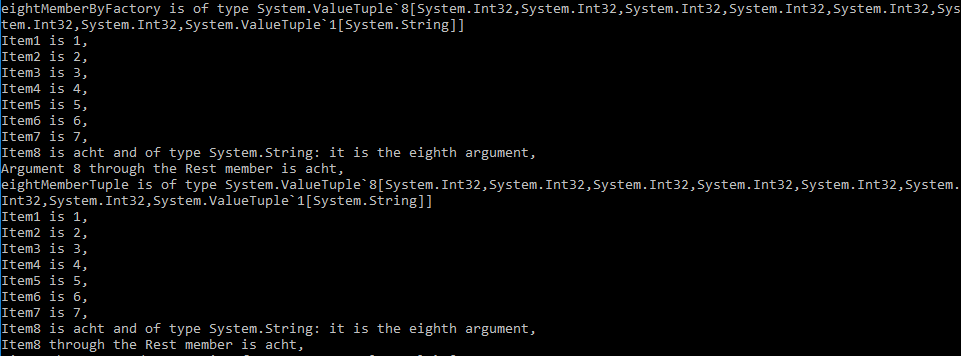
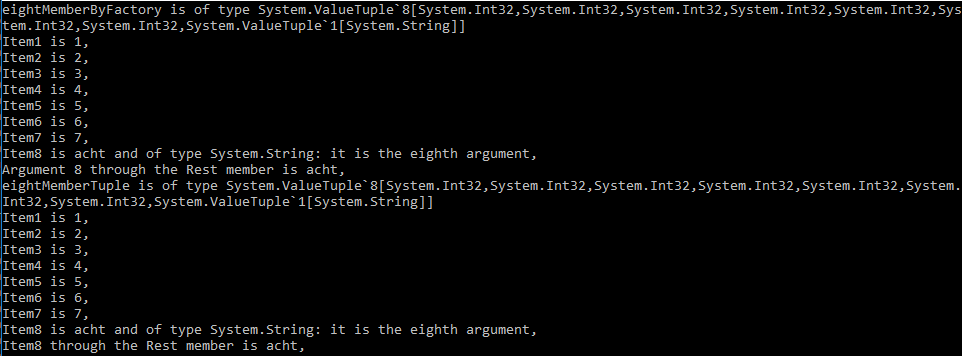
ValueTuple: more preparation for pub

Changed region(s): [[0.0, 0.0, 0.9979, 0.9888]]

diff --git a/ValueTuples/Program.cs b/ValueTuples/Program.cs
@@ -6,8 +6,10 @@ namespace ValueTuples
     {
         static void Main(string[] args)
         {
-            DoItWithOrdinaryTuples.TuplesWithManyMembers_AtInfinitum();
-            //DoItWithValueTuples.TuplesWithManyMembers_AtInfinitum();
+            DoItWithOrdinaryTuples.IdentityandEquality();
+            DoItWithValueTuples.IdentityandEquality();
+
+            QuickRefresh_Deconstruction.DeconstructionOfObjectOfType_ClassWithDeconstructor();
         }
     }
 }

diff --git a/Article/Article.md b/Article/Article.md
@@ -389,12 +389,10 @@ Console.WriteLine($"nineMemberTupleBySyntax is of type {nineMemberTupleBySyntax.
 ```
 For the ValueTuples with eight members, following is the output:
 
-> volgende screenshot is NIET correct 
 ![Value Type with eight members](valuetype_atinfinitum_eightmember.PNG)
 
 For the ValueTuples with nine members, following is the output:
 
-> volgende screenshot is NIET correct 
 ![Value Type with nine members](valuetype_atinfinitum_ninemember.PNG)
 
 Here also, with 7 or less members, nothing special is happening.
@@ -415,11 +413,13 @@ When usin the syntax convention for creation, the compiler knows how to deal wit
 The above calls actually get compiled into following code (using C# 6.0 syntax)
 
 ```csharp
-ValueTuple<int, int, int, int, int, int, int, int> eightMemberByConstructor = new ValueTuple<int, int, int, int, int, int, int, int>(1, 2, 3, 4, 5, 6, 7, 8);
-ValueTuple<int, int, int, int, int, int, int, ValueTuple<int>> eightMemberByFactory = ValueTuple.Create(1, 2, 3, 4, 5, 6, 7, 8);
+ValueTuple<int, int, int, int, int, int, int> sevenMemberByConstructor = new ValueTuple<int, int, int, int, int, int, int>(1, 2, 3, 4, 5, 6, 7);
+ValueTuple<int, int, int, int, int, int, int> sevenMemberByFactory = ValueTuple.Create(1, 2, 3, 4, 5, 6, 7);
 ValueTuple<int, int, int, int, int, int, int> sevenMemberTuple = new ValueTuple<int, int, int, int, int, int, int>(1, 2, 3, 4, 5, 6, 7);
-ValueTuple<int, int, int, int, int, int, int, ValueTuple<int>> eightMemberTuple = new ValueTuple<int, int, int, int, int, int, int, ValueTuple<int>>(1, 2, 3, 4, 5, 6, 7, new ValueTuple<int>(8));
-ValueTuple<int, int, int, int, int, int, int, ValueTuple<int, int>> nineMemberTupleAttempt = new ValueTuple<int, int, int, int, int, int, int, ValueTuple<int, int>>(1, 2, 3, 4, 5, 6, 7, new ValueTuple<int, int>(8, 9));
+ValueTuple<int, int, int, int, int, int, int, ValueTuple<string>> eightMemberByFactory = ValueTuple.Create(1, 2, 3, 4, 5, 6, 7, "acht");
+ValueTuple<int, int, int, int, int, int, int, ValueTuple<string>> eightMemberTuple = new ValueTuple<int, int, int, int, int, int, int, ValueTuple<string>>(1, 2, 3, 4, 5, 6, 7, new ValueTuple<string>("acht"));
+ValueTuple<int, int, int, int, int, int, int, ValueTuple<ValueTuple<string, string>>> nineMemberByNestedFactory = ValueTuple.Create(1, 2, 3, 4, 5, 6, 7, ValueTuple.Create("acht", "negen"));
+ValueTuple<int, int, int, int, int, int, int, ValueTuple<string, string>> nineMemberTupleBySyntax = new ValueTuple<int, int, int, int, int, int, int, ValueTuple<string, string>>(1, 2, 3, 4, 5, 6, 7, new ValueTuple<string, string>("acht", "negen"));
 ```
 Notice how:
 - creation through the constructor and factory method gets compiled to a respective constructor call and a call of the factory method.
@@ -469,7 +469,7 @@ Notice how:
 Finally, can we create a tuple with the default constructor? Let's find out.
 
 #### Syntax for Reference Tuples
-The code](https://github.com/sergedesmedt/CSharpLanguageFeatures/blob/master/ValueTuples/DoItWithOrdinaryTuples.cs#L80-L83)
+[The code](https://github.com/sergedesmedt/CSharpLanguageFeatures/blob/master/ValueTuples/DoItWithOrdinaryTuples.cs#L80-L83)
 ```csharp
 // Following does not compile
 //Tuple<int, string> myTuple = new Tuple<int, string>();
@@ -650,6 +650,7 @@ Following is a simple refresh on Deconstruction. It is not my intention to provi
 
 #### Constructors
 We all know constructors of classes: they provide a point of initialization for the members of the class. They allow you to provide initial values for the members. Those values can be defined in the constructor themselves, or they can be provided to the constructor as parameters in the constructor call:
+
 [The code](https://github.com/sergedesmedt/CSharpLanguageFeatures/blob/master/ValueTuples/QuickRefreshDeconstruction/ClassWithConstructors.cs#L6-L26)
 ```csharp
 public class ClassWithConstructors {
@@ -694,6 +695,7 @@ But, what if we wanted to "un-group" those properties back into seperate values?
 
 #### Deconstructor
 Deconstructors provide for the opposite operation: they allow to decompose/deconstruct an object of a class into its seperate components by assigning them to seperate variables. For that we define a `Deconstructor` for the class:
+
 [The code](https://github.com/sergedesmedt/CSharpLanguageFeatures/blob/master/ValueTuples/QuickRefreshDeconstruction/ClassWithDeconstructor.cs#L6-L26)
 ```csharp
 public class ClassWithDeconstructor {
@@ -732,6 +734,8 @@ Console.WriteLine("The decomposition of the object results in following values >
                 $" targetForInt: {targetForInt}" +
                 $" targetForString: {targetForString}");
 ```
+![Output of the code](quickrefresh_deconstruction_deconstructionofobjectoftype_classwithdeconstructor.PNG)
+
 Notice how:
  - The Deconstructor always has the name `Deconstructor`!
  - For the printing of the properties of the class, we have to use the dot-syntax for class members: the variable name of the object, a dot and finally the name of the property
@@ -802,6 +806,7 @@ Console.WriteLine($"Tuple item1: {tuple.Item1} - item2: {tuple.Item2}");
 Nothing special here: a reference to the tuple created in the method is returned to the caller, and we can then access it's properties through the usual dot operator.
 
 Of course, just as we can deconstruct reference tuples created in our code, we can also deconstruct reference tuples returned from a method:
+
 [The code](https://github.com/sergedesmedt/CSharpLanguageFeatures/blob/master/ValueTuples/DoItWithOrdinaryTuples.cs#L166-L169)
 ```csharp
 var (theNumber, theString) = GiveMeTheTuple();
@@ -831,7 +836,7 @@ Console.WriteLine($"Tuple item1 through variable theNumber: {theNumber} - item2 
 #### Syntax for Value tuples: named members
 When we used ValueTuples as a regular variable, we where able to name the members. We can do the same when we return a ValueTuple from a method: we provide the names in the signature of the method.
 
-
+[The code](https://github.com/sergedesmedt/CSharpLanguageFeatures/blob/master/ValueTuples/DoItWithValueTuples.cs#L254-L290)
 ```csharp
 public static (int theNumber, string theString) GiveMeTheTuple_Named() {
     return (11, "elf");
@@ -844,6 +849,8 @@ Console.WriteLine($"Tuple item1 through variable theNumber: {tuple.theNumber} - 
 When calling the method, we can use the names given in the method's signature, or we can use the regular Item1, Item2, etc... names.
 
 What does NOT work is give the names inside the method:
+
+[The code](https://github.com/sergedesmedt/CSharpLanguageFeatures/blob/master/ValueTuples/DoItWithValueTuples.cs#L254-L290)
 ```csharp
 public static (int, string) GiveMeTheTuple_InternallyNamed() {
     return (internalInteger: 11, internalString: "elf");
@@ -907,6 +914,8 @@ In the sample code you'll also find examples for nested `ValueTuple`s, mixed nam
 ### As Arguments to Methods
 
 #### Syntax for reference `Tuple`s
+
+[The code](https://github.com/sergedesmedt/CSharpLanguageFeatures/blob/master/ValueTuples/DoItWithOrdinaryTuples.cs#L175-L182)
 ```csharp
 public static void AcceptTheTuple(Tuple<int, string> arg) {
     Console.WriteLine($"Tuple item1 through the member: {arg.Item1} - item2 through the member: {arg.Item2}");
@@ -918,6 +927,8 @@ AcceptTheTuple(tuple);
 Nothing special here: a reference to the tuple is given to the method which can then use it internally.
 
 #### Syntax for ValueTuples
+
+[The code](https://github.com/sergedesmedt/CSharpLanguageFeatures/blob/master/ValueTuples/DoItWithValueTuples.cs#L296-L336)
 ```csharp
 public static void AcceptTheTuple_Anonymous((int, string) arg) {
     Console.WriteLine($"Tuple item1 through the member: {arg.Item1} - item2 through the member: {arg.Item2}");
@@ -938,6 +949,8 @@ Notice how:
 
 #### Syntax for Value tuples: named members
 Can we provide names for the fields of a ValueTuple used as an argument to a function? Well, yes we can, but only in the signature of the method:
+
+[The code](https://github.com/sergedesmedt/CSharpLanguageFeatures/blob/master/ValueTuples/DoItWithValueTuples.cs#L296-L336)
 ```csharp
 public static void AcceptTheTuple_Named((int theNumber, string theString) arg) {
     // Following does not compile: the parameter is a tuple and not two deconstructed values
@@ -960,6 +973,8 @@ AcceptTheTuple_Named(someNamedTupe);
 *A quick note here: allthough the syntax for Deconstruction and `ValueTuple`s is similar, they are of course completely distinct features: where Deconstruction puts the components directly in variables, with `ValueTuple`s you define a single variable (`arg` in this case) and give the members of the tuple distinct names (`theNumber` and `theString`)*
 
 #### Method overloading
+
+[The code](https://github.com/sergedesmedt/CSharpLanguageFeatures/blob/master/ValueTuples/DoItWithValueTuples.cs#L300-L310)
 ```csharp
 public static void AcceptTheTuple_Named((int theNumber, string theString) arg) {
     // Following does not compile: the parameter is a tuple and not two deconstructed values
@@ -992,6 +1007,8 @@ This may come as a surprise, after all we don't need those names anymore inside 
 Allthough the names are not considered for *method overloading*, they are considered for *method overriding*. It is NOT allowed to change the names of the components of a `ValueType` used as an argument to a method when defining an override for that method.
 
 Following is an example using interfaces, but in the accompaning code you can find similar code for abstract methods and virtual methods.
+
+[The code](https://github.com/sergedesmedt/CSharpLanguageFeatures/blob/master/ValueTuples/InterfaceMethodsInterfaceImpl.cs#L6-L69)
 ```csharp
 public interface IInterfaceMethods {
     (int, string) AnonymousTupleAsReturn();
@@ -1069,6 +1086,8 @@ public void AnonymousTupleAsArgument((int, string) argWithAnotherName)
 
 ### ValueTuples and Generics
 Because names in a certain scope are resolved by the compiler, we can use the names in the following case:
+
+[The code](https://github.com/sergedesmedt/CSharpLanguageFeatures/blob/master/ValueTuples/DoItWithValueTuples.cs#L346-L363)
 ```csharp
 public static T DoSomethingWithTheArgument<T>(T arg) {
     return arg;
@@ -1097,6 +1116,8 @@ public static (int theNumber, string theString) DoSomethingWithTheArgument((int 
 }
 ```
 There is no intelligence infering names spread across tuples:
+
+[The code](https://github.com/sergedesmedt/CSharpLanguageFeatures/blob/master/ValueTuples/DoItWithValueTuples.cs#L365-L378)
 ```csharp
 public static (T, V) DoSomeMoreWithTheArguments<T, U, V, W>((T, U) arg1, (V, W) arg2)
 {
@@ -1115,6 +1136,8 @@ The last line won't compile because the names given to the arguments are not "tr
 ### ValueTuples and Extension methods
 
 ValueTuples with the same types but different names are not considered as having different types. So, just as you cannot use names to differentiate between overloaded methods, you cannot use names to differentiate between extension methods:
+
+[The code](https://github.com/sergedesmedt/CSharpLanguageFeatures/blob/master/ValueTuples/DoItWithValueTuples.cs#L384-L400)
 ```csharp
 public class ClassToExtend
 {
@@ -1279,7 +1302,7 @@ public {TheInteger, TheString} AnAnonymousClass()
 }
 ```
 
-The only way to return or pass an anonymous type as an argument is to use the `object` type, but of course it is then difficult to access any members of the type: how do you now what members it has? To what type must you cast it? There are a few ways to solve this problem (see the article in th reference section) but it is better not to use anonymous types as return types or argument types from and to methods.
+The only way to return or pass an anonymous type as an argument is to use the `object` type, but of course it is then difficult to access any members of the type: how do you now what members it has? To what type must you cast it? There are a few ways to solve this problem (see the article in the reference section) but it is better not to use anonymous types as return types or argument types from and to methods.
 
 
 ## Conclusion
